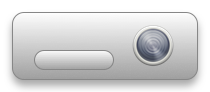
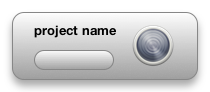
Providing default text for project name, improving default image.

Changed region(s): [[0.1429, 0.2609, 0.5714, 0.413]]

diff --git a/Punch.wdgtproj/project.wdgt/Punch.html b/Punch.wdgtproj/project.wdgt/Punch.html
@@ -24,9 +24,10 @@
         
         <div class="apple-no-children" id="info" apple-part="com.apple.Dashcode.part.infobutton" apple-default-image-visibility="hidden"></div>
         
-    <div apple-part="com.apple.Dashcode.part.text" class="apple-text apple-no-children" apple-default-image-visibility="hidden" apple-text-overflow="ellipsis" id="project_name_display" apple-group="text"></div>
+    <div apple-part="com.apple.Dashcode.part.text" class="apple-text apple-no-children" apple-text-overflow="ellipsis" id="project_name_display" apple-group="text"></div>
     <div apple-part="com.apple.Dashcode.part.indicator" class="apple-no-children" id="project_status_indicator" apple-group="indicator"></div>
     <div apple-part="com.apple.Dashcode.part.lozengetextbutton" class="apple-no-children" apple-style="image-theme: 1; image-shape: 1; image-button-type: 0; image-opacity: 1.00; image-top-color: 1.0000,1.0000,1.0000; image-bottom-color: 0.6154,0.6154,0.6154; image-radius: 10,10,10,10; image-border: 1; image-border-color: 0.5294,0.5294,0.5294; image-border-width: 1; shine-strength: 0.90; shine-alpha-level: 0.67; shine-height: 0.50; glass-arc-height: 0.06; shadow-include-shadow: 0; shadow-blur: 3.00;" id="punch_button" apple-group="button"></div>
+    
     </div>
     <div id="back">
        <img id="backImg" src="Images/back.png" alt="" apple-locked="true" apple-part="com.apple.Dashcode.part.backimage" apple-style=" image-radius: 12,12,12,12; image-border: 1; image-border-color: 0.1500,0.1500,0.1500; image-border-width: 3; shadow-include-shadow: 1; shadow-blur: 9.00; shadow-offset: -1.00,-6.00; shadow-color: 0.0000,0.0000,0.0000,0.3333;">

diff --git a/Punch.wdgtproj/project.wdgt/Parts/setup.js b/Punch.wdgtproj/project.wdgt/Parts/setup.js
@@ -5,9 +5,9 @@ function setupParts() {
     setupParts.called = true;
     CreateInfoButton('info', { frontID: 'front', foregroundStyle: 'white', backgroundStyle: 'black', onclick: 'showBack' });
     CreateGlassButton('done', { text: 'Done', onclick: 'showFront' });
-    CreateText('project_name_display', {  });
+    CreateText('project_name_display', { text: 'project name' });
     CreateText('project_name_input_label', { text: 'Project Name:' });
     CreateIndicator('project_status_indicator', { onValue: 1, criticalValue: 3, warningValue: 2 });
-    CreateButton('punch_button', { leftImageWidth: 10, onclick: 'buttonAction', rightImageWidth: 10 });
+    CreateButton('punch_button', { onclick: 'buttonAction', rightImageWidth: 10, leftImageWidth: 10 });
 }
 window.addEventListener('load', setupParts, false);
